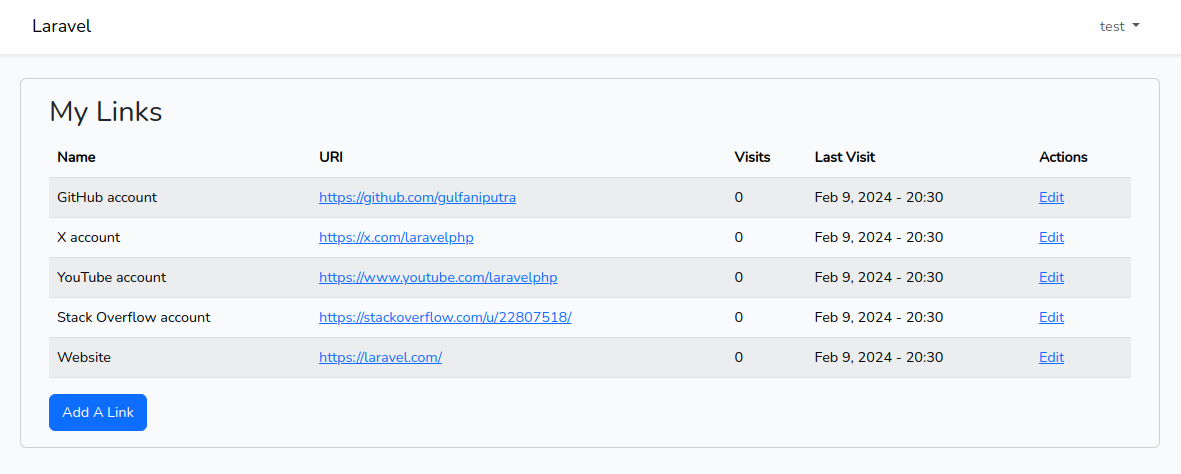
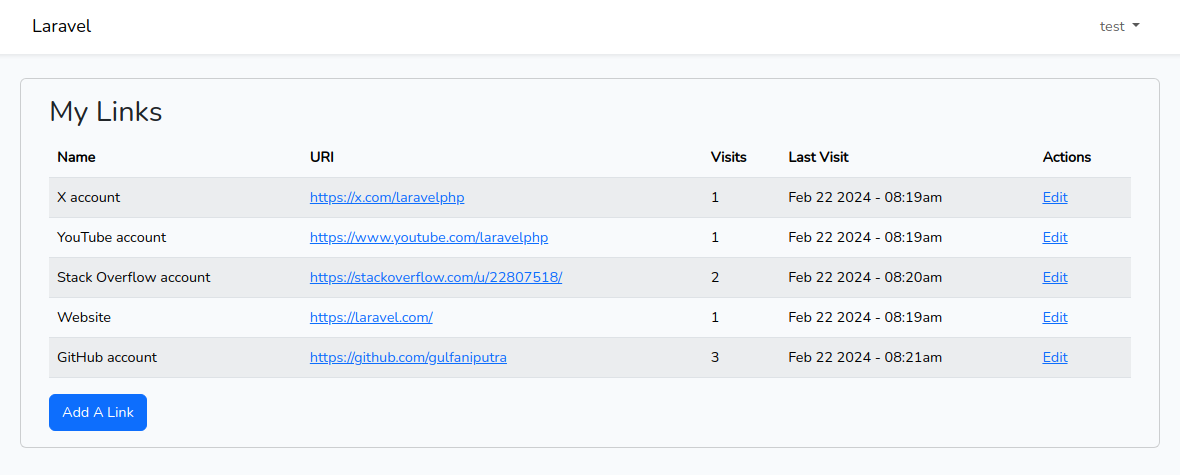
Configure visits counter to record asynchronously

diff --git a/resources/js/app.js b/resources/js/app.js
@@ -1,1 +1,15 @@
-import './bootstrap';
+import axios from "axios";
+import "./bootstrap";
+
+$(".user-link").click(function (e) {
+    var linkId = $(this).data("link-id");
+    var linkUrl = $(this).attr("href");
+
+    axios
+        .post("/visit/ +" + linkId, {
+            link: linkUrl,
+        })
+
+        .then((response) => console.log("response: ", response))
+        .catch((error) => console.log("error: ", error));
+});

diff --git a/resources/views/users/show.blade.php b/resources/views/users/show.blade.php
@@ -6,8 +6,8 @@
         <div class="col-12 col-md-6 offset-md-3">
             @foreach ($user->links as $link)
             <div class="link">
-                <a href="{{ $link->link }}" class="user-link d-block p-4 mb-4 rounded h3 text-center" target="_blank"
-                    rel="nofollow"
+                <a href="{{ $link->link }}" data-link-id="{{ $link->id }}"
+                    class="user-link d-block p-4 mb-4 rounded h3 text-center" target="_blank" rel="nofollow"
                     style="border: 2px solid {{ $user->text_color }}; color: {{ $user->text_color }}">{{ $link->name }}</a>
             </div>
             @endforeach

diff --git a/app/Http/Controllers/VisitController.php b/app/Http/Controllers/VisitController.php
@@ -9,5 +9,9 @@ class VisitController extends Controller
 {
     public function store(Request $request, Link $link)
     {
+        return $link->visits()
+            ->create([
+                'user_agent' => $request->userAgent(),
+            ]);
     }
 }

diff --git a/resources/views/layouts/links.blade.php b/resources/views/layouts/links.blade.php
@@ -22,6 +22,7 @@
         <div id="app">
             @yield('content')
         </div>
+        <script src="https://code.jquery.com/jquery-3.7.1.min.js"></script>
     </body>
 
 </html>

diff --git a/README.md b/README.md
@@ -1,8 +1,6 @@
 # Linkx App
 
-_**Note:** this project is a work in progress_
-
-A spartan web application for social media reference landing pages inspired by sites such as Linktree, Biolinky, and Campsite.
+A spartan web application for social media reference landing pages inspired by Linktree.
 
 The name 'Linkx' derives from the wildcat genus _Lynx_.
 
